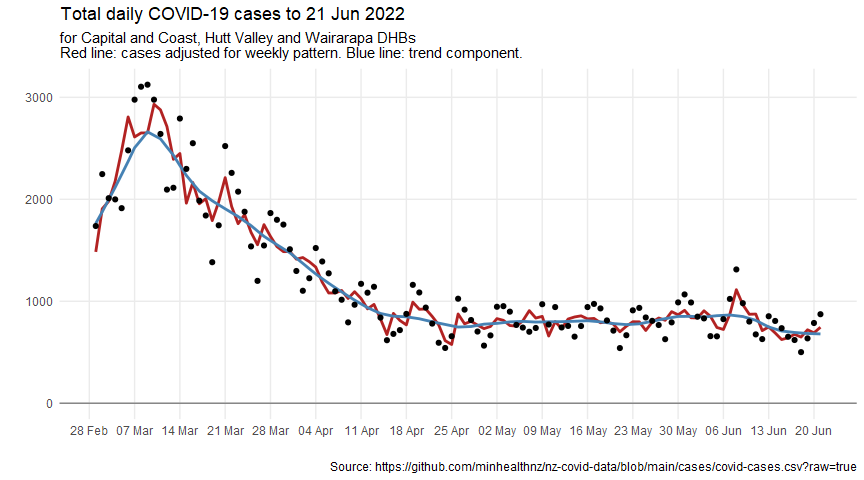
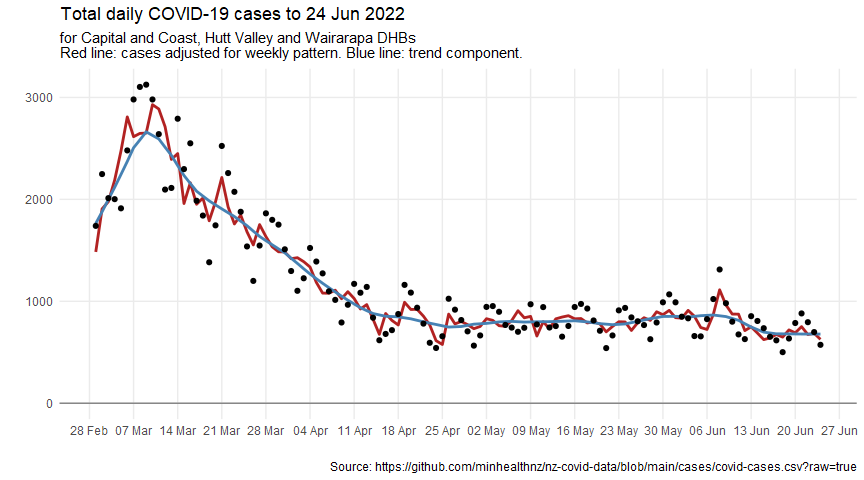
update for 20220625

diff --git a/covid-post-peak-analysis.md b/covid-post-peak-analysis.md
@@ -30,7 +30,7 @@ cases_df <- read_csv(case_data_url) %>%
 
     ## Warning: One or more parsing issues, see `problems()` for details
 
-    ## Rows: 1289128 Columns: 7
+    ## Rows: 1303779 Columns: 7
 
     ## -- Column specification --------------------------------------------------------
     ## Delimiter: ","
@@ -49,7 +49,7 @@ cases_by_dhb_df <- cases_df %>%
   count(report_date, dhb, case_status)
 ```
 
-## Wellington figures up to 21 Jun 2022
+## Wellington figures up to 24 Jun 2022
 
 Including Hutt and Wairarapa as well as CCDHB.
 
